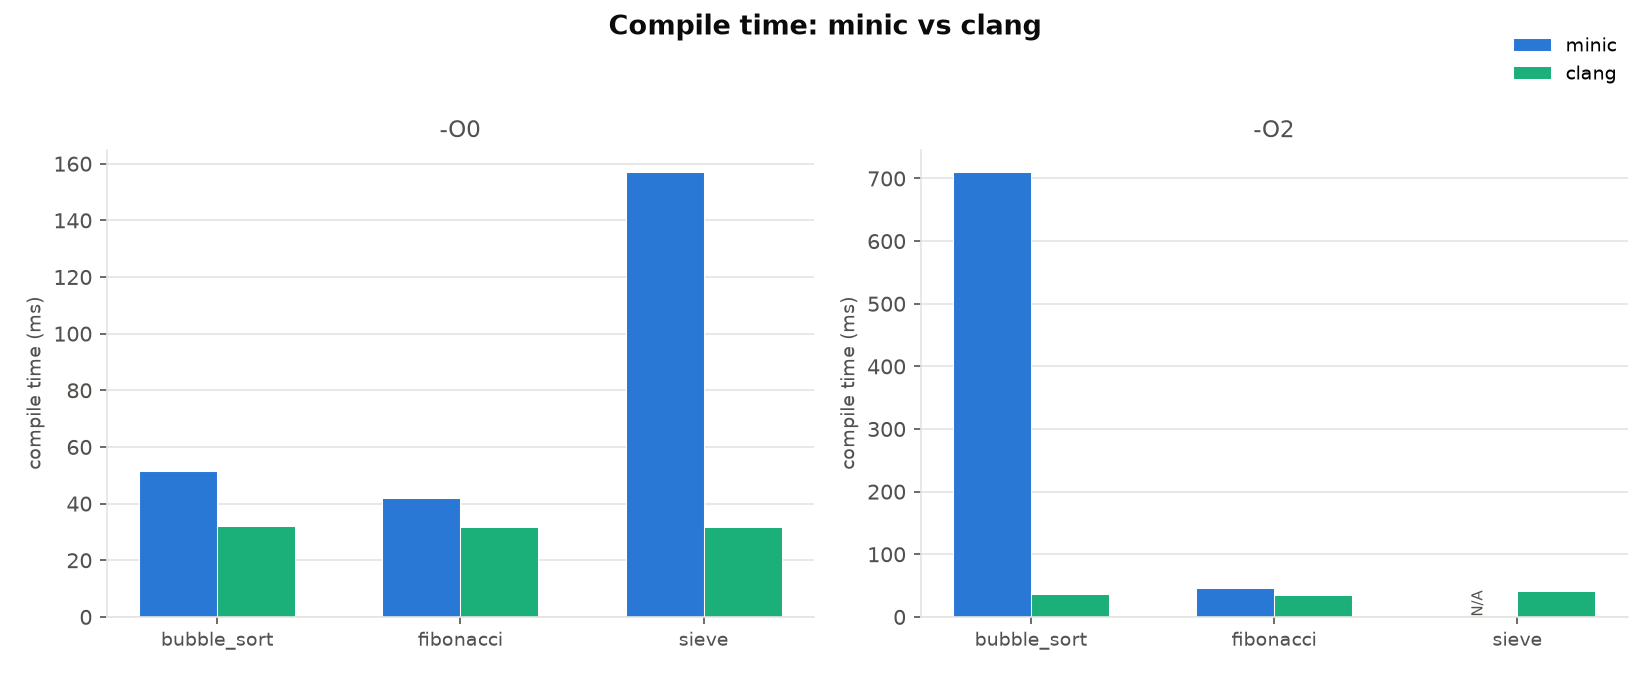
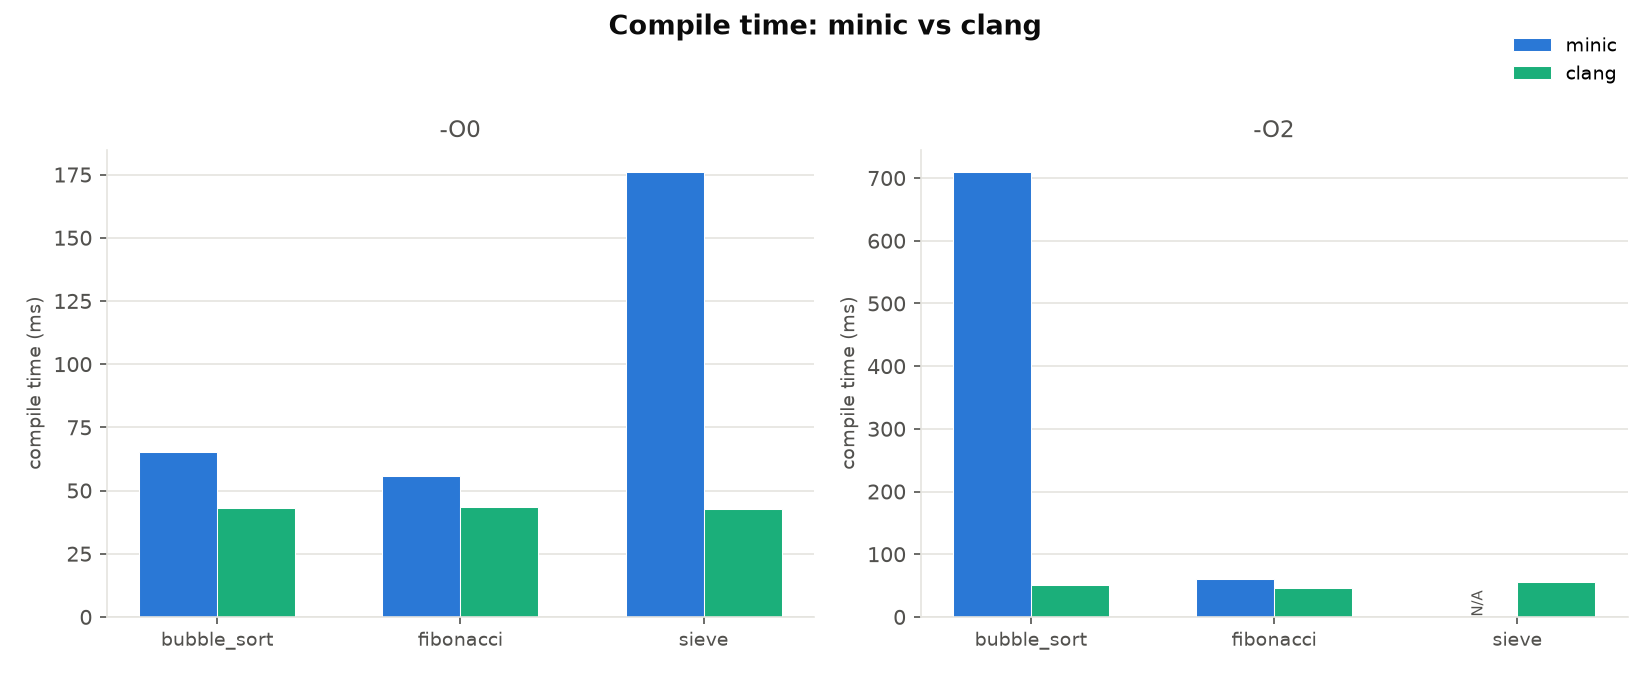
docs: regenerate benchmark numbers and charts after print_* migration
minic now links a small runtime shim into every binary (replacing the
printf builtin), and the benchmark programs themselves were rewritten to
call print_int/print_str instead of printf -- both make the previously
committed numbers stale. Re-ran the full hyperfine suite on the same
machine/toolchain versions cited in the methodology note; the story is
unchanged (O2 tracks clang closely, O0 is mixed, compile time is slower,
sieve -O2 still hits the known pre-existing minic bug), with compile-time
deltas shifting a few percent from the added link step.

diff --git a/README.md b/README.md
@@ -128,20 +128,23 @@ compile time
 **Key findings:**
 
 - **At `-O2`, execution speed tracks clang closely across all three
-  programs** (within ±8%) — expected, since `-O1`–`-O3` run LLVM's
+  programs** (within ±3%) — expected, since `-O1`–`-O3` run LLVM's
   genuine new-pass-manager pipeline (`mem2reg`, `instcombine`,
   `simplifycfg`, tail-call elimination, loop unrolling), not a
   hand-rolled approximation of one.
-- **At `-O0` the picture is more mixed**: `bubble_sort` runs 73% slower
+- **At `-O0` the picture is more mixed**: `bubble_sort` runs 63% slower
   unoptimized, while `fibonacci` runs 20% *faster* unoptimized than
   clang's own `-O0` output — a reminder that "no optimizer" doesn't mean
   "identical codegen," and that this is worth digging into further
   rather than papering over with an average.
 - **Compile speed is generally slower than clang** on this hardware, not
-  faster — up to ~19× on `bubble_sort -O2`. Real measured numbers, not
+  faster — up to ~14× on `bubble_sort -O2`. Real measured numbers, not
   the "N× faster" claim compiler-project READMEs traditionally reach
   for, since a hand-typed one would just go stale the next time the code
-  changes.
+  changes. `minic`'s own compile step also now links a small runtime
+  shim (`print_int`/`print_float`/`print_char`/`print_str`, replacing a
+  `printf` builtin) into every binary, which accounts for a few
+  milliseconds of the gap.
 - **Building this benchmark suite surfaced two real, pre-existing bugs**
   in `c-compiler` that nothing had caught before (the `-O2`/`int **` and
   nested-loop bugs described above), documented at the point of
@@ -153,23 +156,23 @@ compile time
 
 | Algorithm | Opt | minic | clang | Delta |
 |---|---|---:|---:|---|
-| Bubble sort (5,000 el., reverse-sorted) | `-O0` | 56.8 ms | 32.8 ms | 73% slower |
-| Bubble sort (5,000 el., reverse-sorted) | `-O2` | 8.7 ms | 9.4 ms | **7% faster** |
-| Fibonacci(39), naive recursive | `-O0` | 219.3 ms | 275.4 ms | **20% faster** |
-| Fibonacci(39), naive recursive | `-O2` | 157.6 ms | 161.6 ms | **2% faster** |
-| Sieve of Eratosthenes (N=40,000) | `-O0` | 2.7 ms | 2.5 ms | 8% slower |
+| Bubble sort (5,000 el., reverse-sorted) | `-O0` | 53.8 ms | 33.1 ms | 63% slower |
+| Bubble sort (5,000 el., reverse-sorted) | `-O2` | 8.2 ms | 8.4 ms | **2% faster** |
+| Fibonacci(39), naive recursive | `-O0` | 220.7 ms | 275.6 ms | **20% faster** |
+| Fibonacci(39), naive recursive | `-O2` | 156.8 ms | 162.4 ms | **3% faster** |
+| Sieve of Eratosthenes (N=40,000) | `-O0` | 2.8 ms | 2.6 ms | 8% slower |
 | Sieve of Eratosthenes (N=40,000) | `-O2` | — | 1.4 ms | known bug, see below |
 
 #### Compile time — the toolchain race
 
 | Algorithm | Opt | minic | clang | Delta |
 |---|---|---:|---:|---|
-| Bubble sort | `-O0` | 51.5 ms | 32.2 ms | 1.6× slower |
-| Bubble sort | `-O2` | 710.5 ms | 37.3 ms | 19.0× slower |
-| Fibonacci(39) | `-O0` | 41.9 ms | 31.6 ms | 1.3× slower |
-| Fibonacci(39) | `-O2` | 46.1 ms | 34.8 ms | 1.3× slower |
-| Sieve of Eratosthenes | `-O0` | 157.1 ms | 31.8 ms | 4.9× slower |
-| Sieve of Eratosthenes | `-O2` | — (hangs) | 41.6 ms | known bug, see below |
+| Bubble sort | `-O0` | 65.4 ms | 43.1 ms | 1.5× slower |
+| Bubble sort | `-O2` | 709.8 ms | 50.8 ms | 14.0× slower |
+| Fibonacci(39) | `-O0` | 55.6 ms | 43.4 ms | 1.3× slower |
+| Fibonacci(39) | `-O2` | 61.2 ms | 46.7 ms | 1.3× slower |
+| Sieve of Eratosthenes | `-O0` | 176.1 ms | 42.8 ms | 4.1× slower |
+| Sieve of Eratosthenes | `-O2` | — (hangs) | 55.6 ms | known bug, see below |
 
 ![Execution time: minic vs clang](testing/benchmarks/charts/execution_time.png)
 ![Compile time: minic vs clang](testing/benchmarks/charts/compile_time.png)